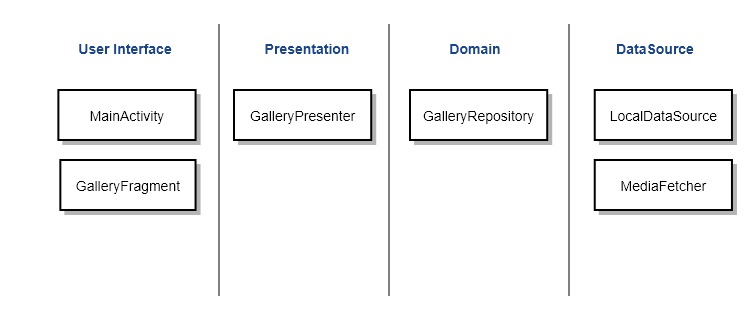
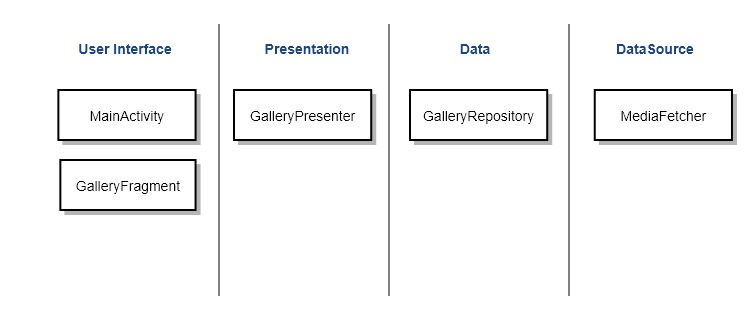
update readme

diff --git a/README.md b/README.md
@@ -5,19 +5,19 @@ Trello : https://trello.com/b/txtiUe3Y/cleangallery
 요구사항을 도출하고 최적의 해결 방안을 모색하는 것을 학습할 수 있습니다.
 
 ## Demos
-**[Directory]**
+### Directory Category
 
 <img src="https://github.com/kimtaesu/CleanGallery/blob/master/document/directory.gif" alt="Smiley face" height="400" width="230">
 
-**[Date]**
+### Date Category
 
 <img src="https://github.com/kimtaesu/CleanGallery/blob/master/document/date.gif" alt="Smiley face" height="400" width="230">
 
-**[Sort]**
+### Sort
 
 <img src="https://github.com/kimtaesu/CleanGallery/blob/master/document/sort.gif" alt="Smiley face" height="400" width="230">
 
-**[Filter]**
+### Filter
 
 <img src="https://github.com/kimtaesu/CleanGallery/blob/master/document/filter.gif" alt="Smiley face" height="400" width="230">
 
@@ -39,10 +39,25 @@ Dagger2를 사용하여 DI를 구현하였으며, 더 나아가 **Graph**를 작
 
 각 객체들에 대한 자세한 설명은 앞으로 진행할 것 입니다.
 > 아래 그림에서 Provide - Inject 관계 연결은 생략하였습니다.
+
 ![](https://raw.githubusercontent.com/kimtaesu/CleanGallery/master/document/di.jpg)
 
 ## Architecture
 ![](https://github.com/kimtaesu/CleanGallery/blob/master/document/architenture.jpg)
+
+### User Interface
+[MainActivity](https://github.com/kimtaesu/CleanGallery/blob/master/app/src/main/java/com/hucet/clean/gallery/activity/MainActivity.kt)에서 표시 할 UI 구성 요소를 만드는 데 사용됩니다. [GalleryPresenter](https://github.com/kimtaesu/CleanGallery/blob/master/app/src/main/java/com/hucet/clean/gallery/presenter/GalleryPresenter.kt) 를 사용하여 Media 데이터를 가져올 수 있습니다.
+
+### Presentation
+이 Layer는 UI를 표현하는데 사용되지만, 동시에 UI 자체에 대해서는 알지 못합니다. 즉, 안드로이드 프레임 워크에 의존하지 않기 때문에 Test 환경을 쉽게 구성할 수 있습니다.  [GalleryRepository](https://github.com/kimtaesu/CleanGallery/blob/master/app/src/main/java/com/hucet/clean/gallery/repository/GalleryRepository.kt)를 사용하여 Media 데이터를 가져올 수 있습니다.
+
+### Data
+Data Layer는 여러 External data layer 대한 **Access Point**입니다. 현재는 Local data layer만 구현되어 있으며, 추후 요구사항에 따라 여러 Cache, Network data source로 부터 데이터를 가져오는 데 사용됩니다.
+
+> Data layer의 추상화는 _Over Engineering_ 일 수 있습니다. Data layer는 **저 수준이기 때문에 Data Layer의 변경은 고 수준(UI, Presentation) 범위를 포함될 수 있습니다.** 또한 실제 문제가 뒤 늦게 나타날 수도 있으며, 시간이 길어질 수록 그동안 구현한 코드를 변경하는 것이 어려울 수 있습니다.
+
+### Local
+Local Layer는 [MediaFetcher](https://github.com/kimtaesu/CleanGallery/blob/master/app/src/main/java/com/hucet/clean/gallery/datasource/local/MediaFetcher.kt)를 사용하여 데이터를 가져올 수 있습니다. MediaFetcher는 [ContentResolver](https://developer.android.com/reference/android/content/ContentResolver.html)의 Query를 통해 Local의 저장되어 있는 Image, Video, Gif를 가져옵니다.
 
 ## Design Patterns
 ### Filter (Chain of responsibility)
